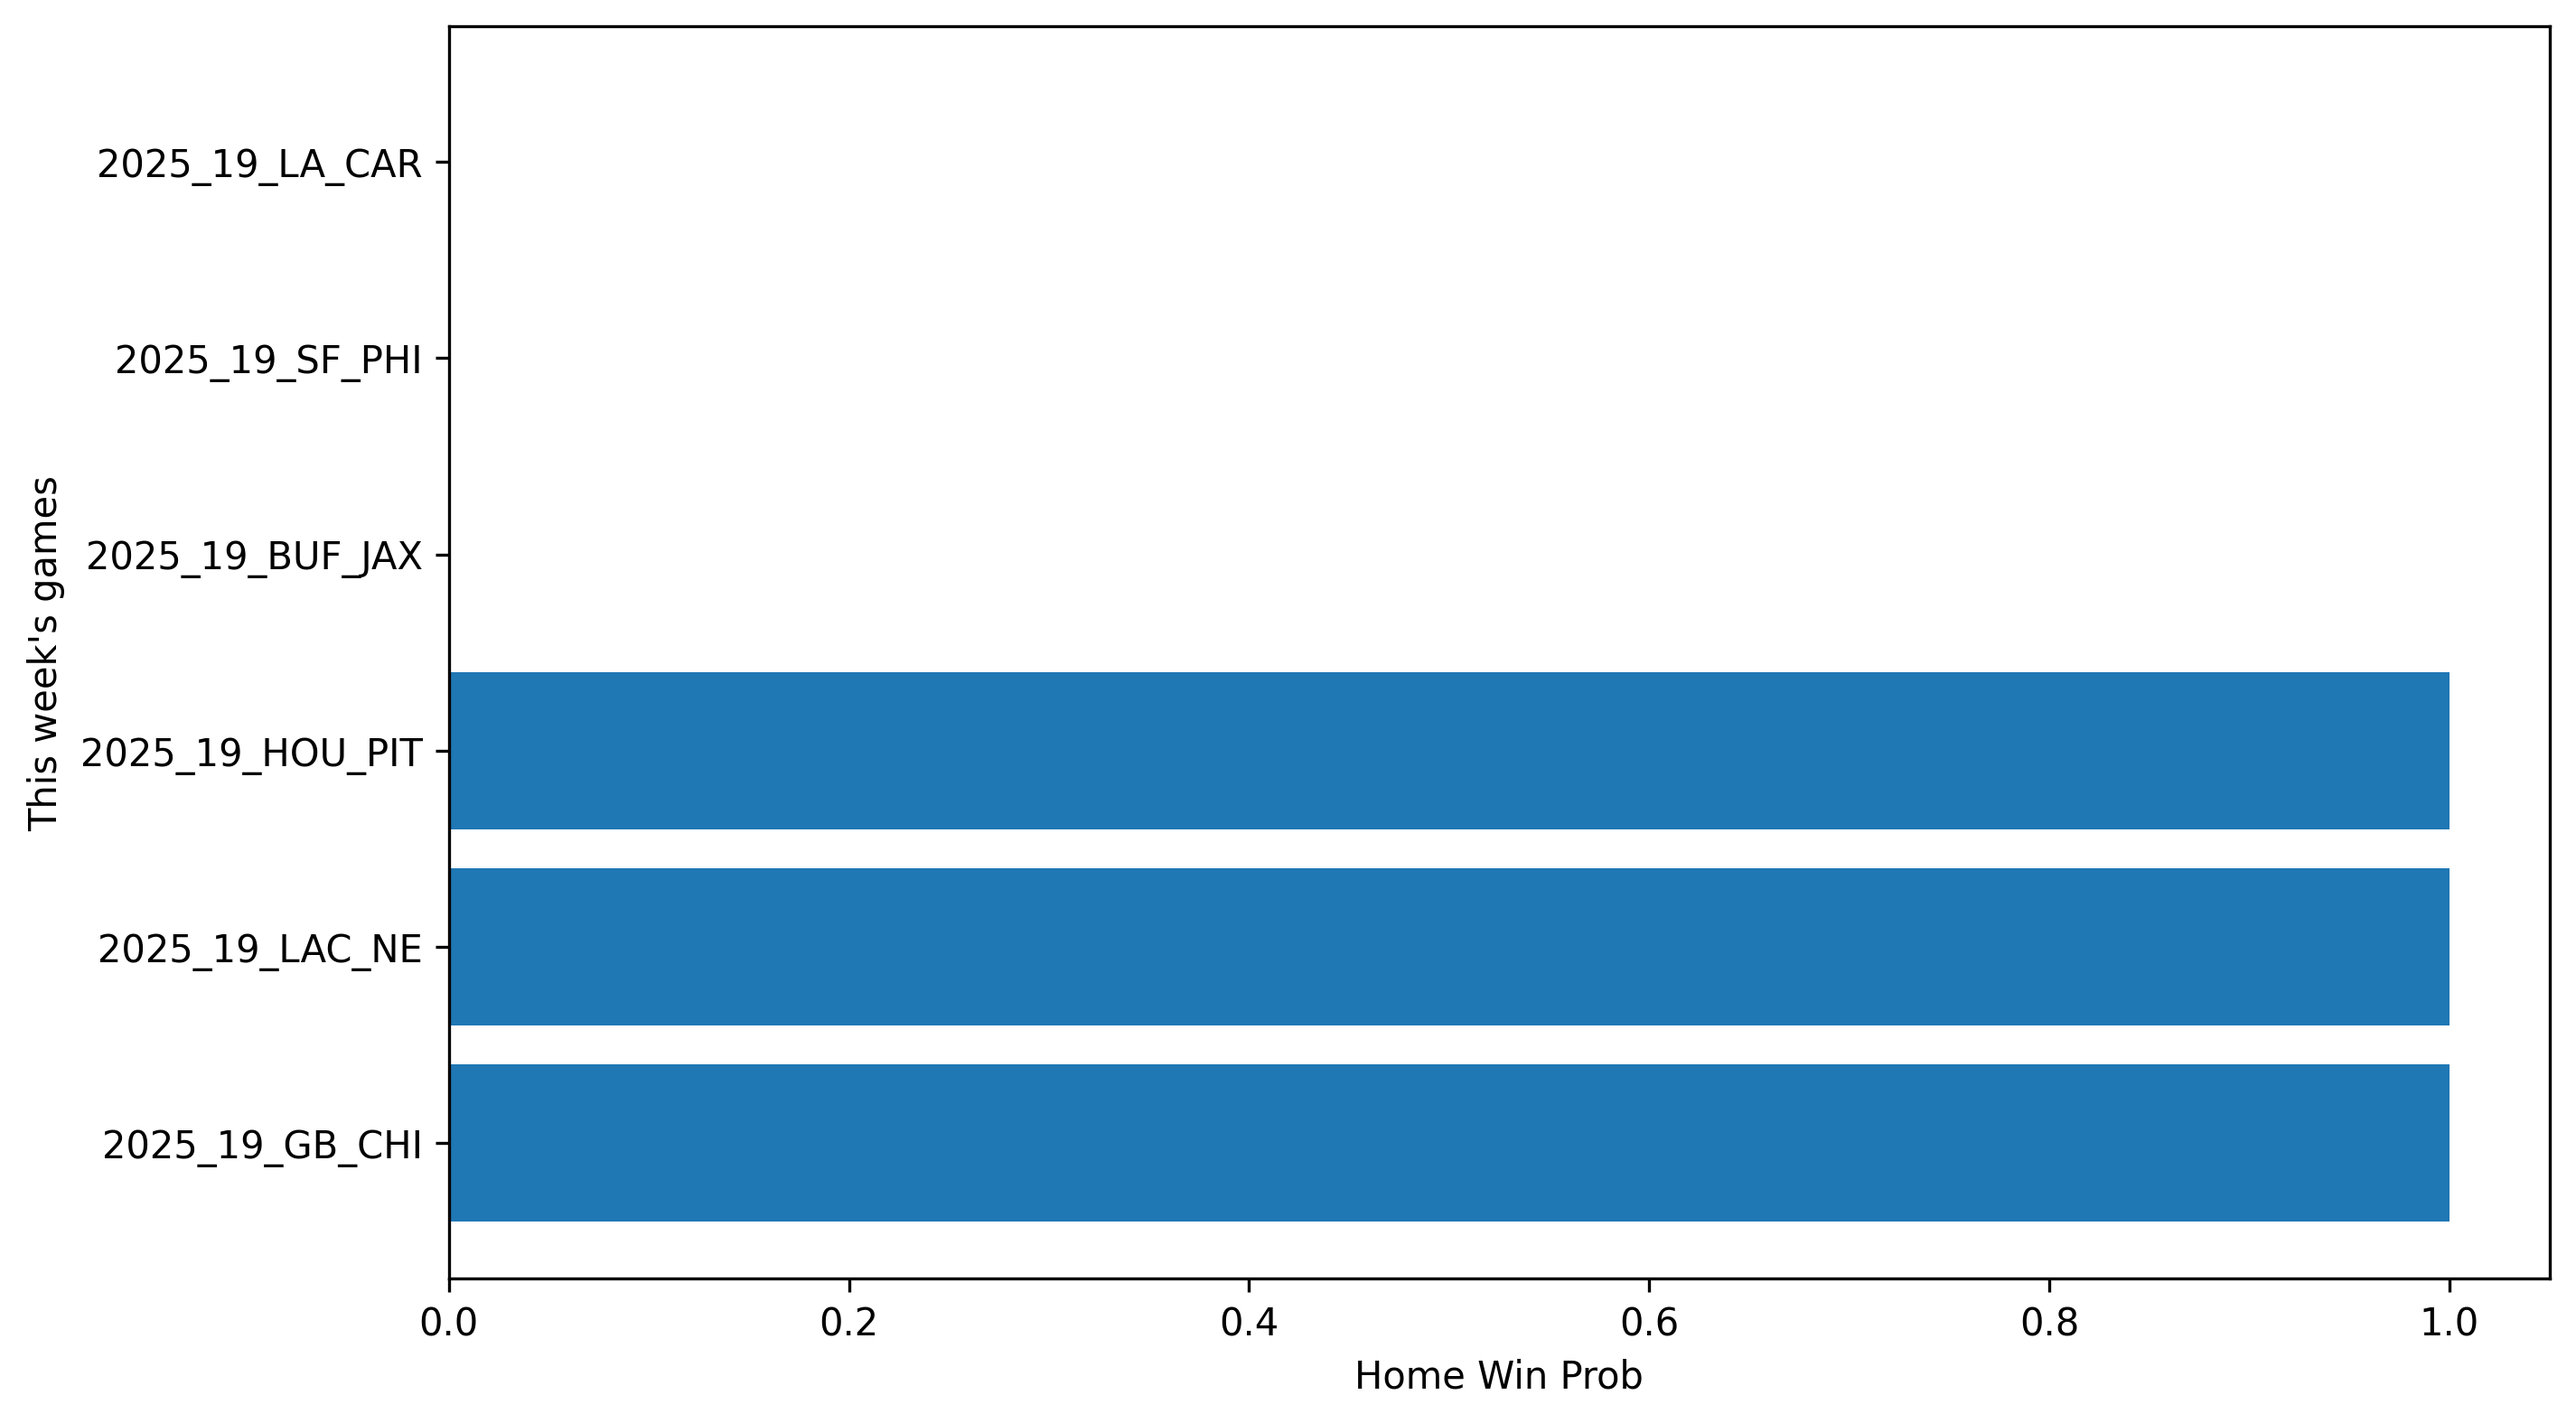
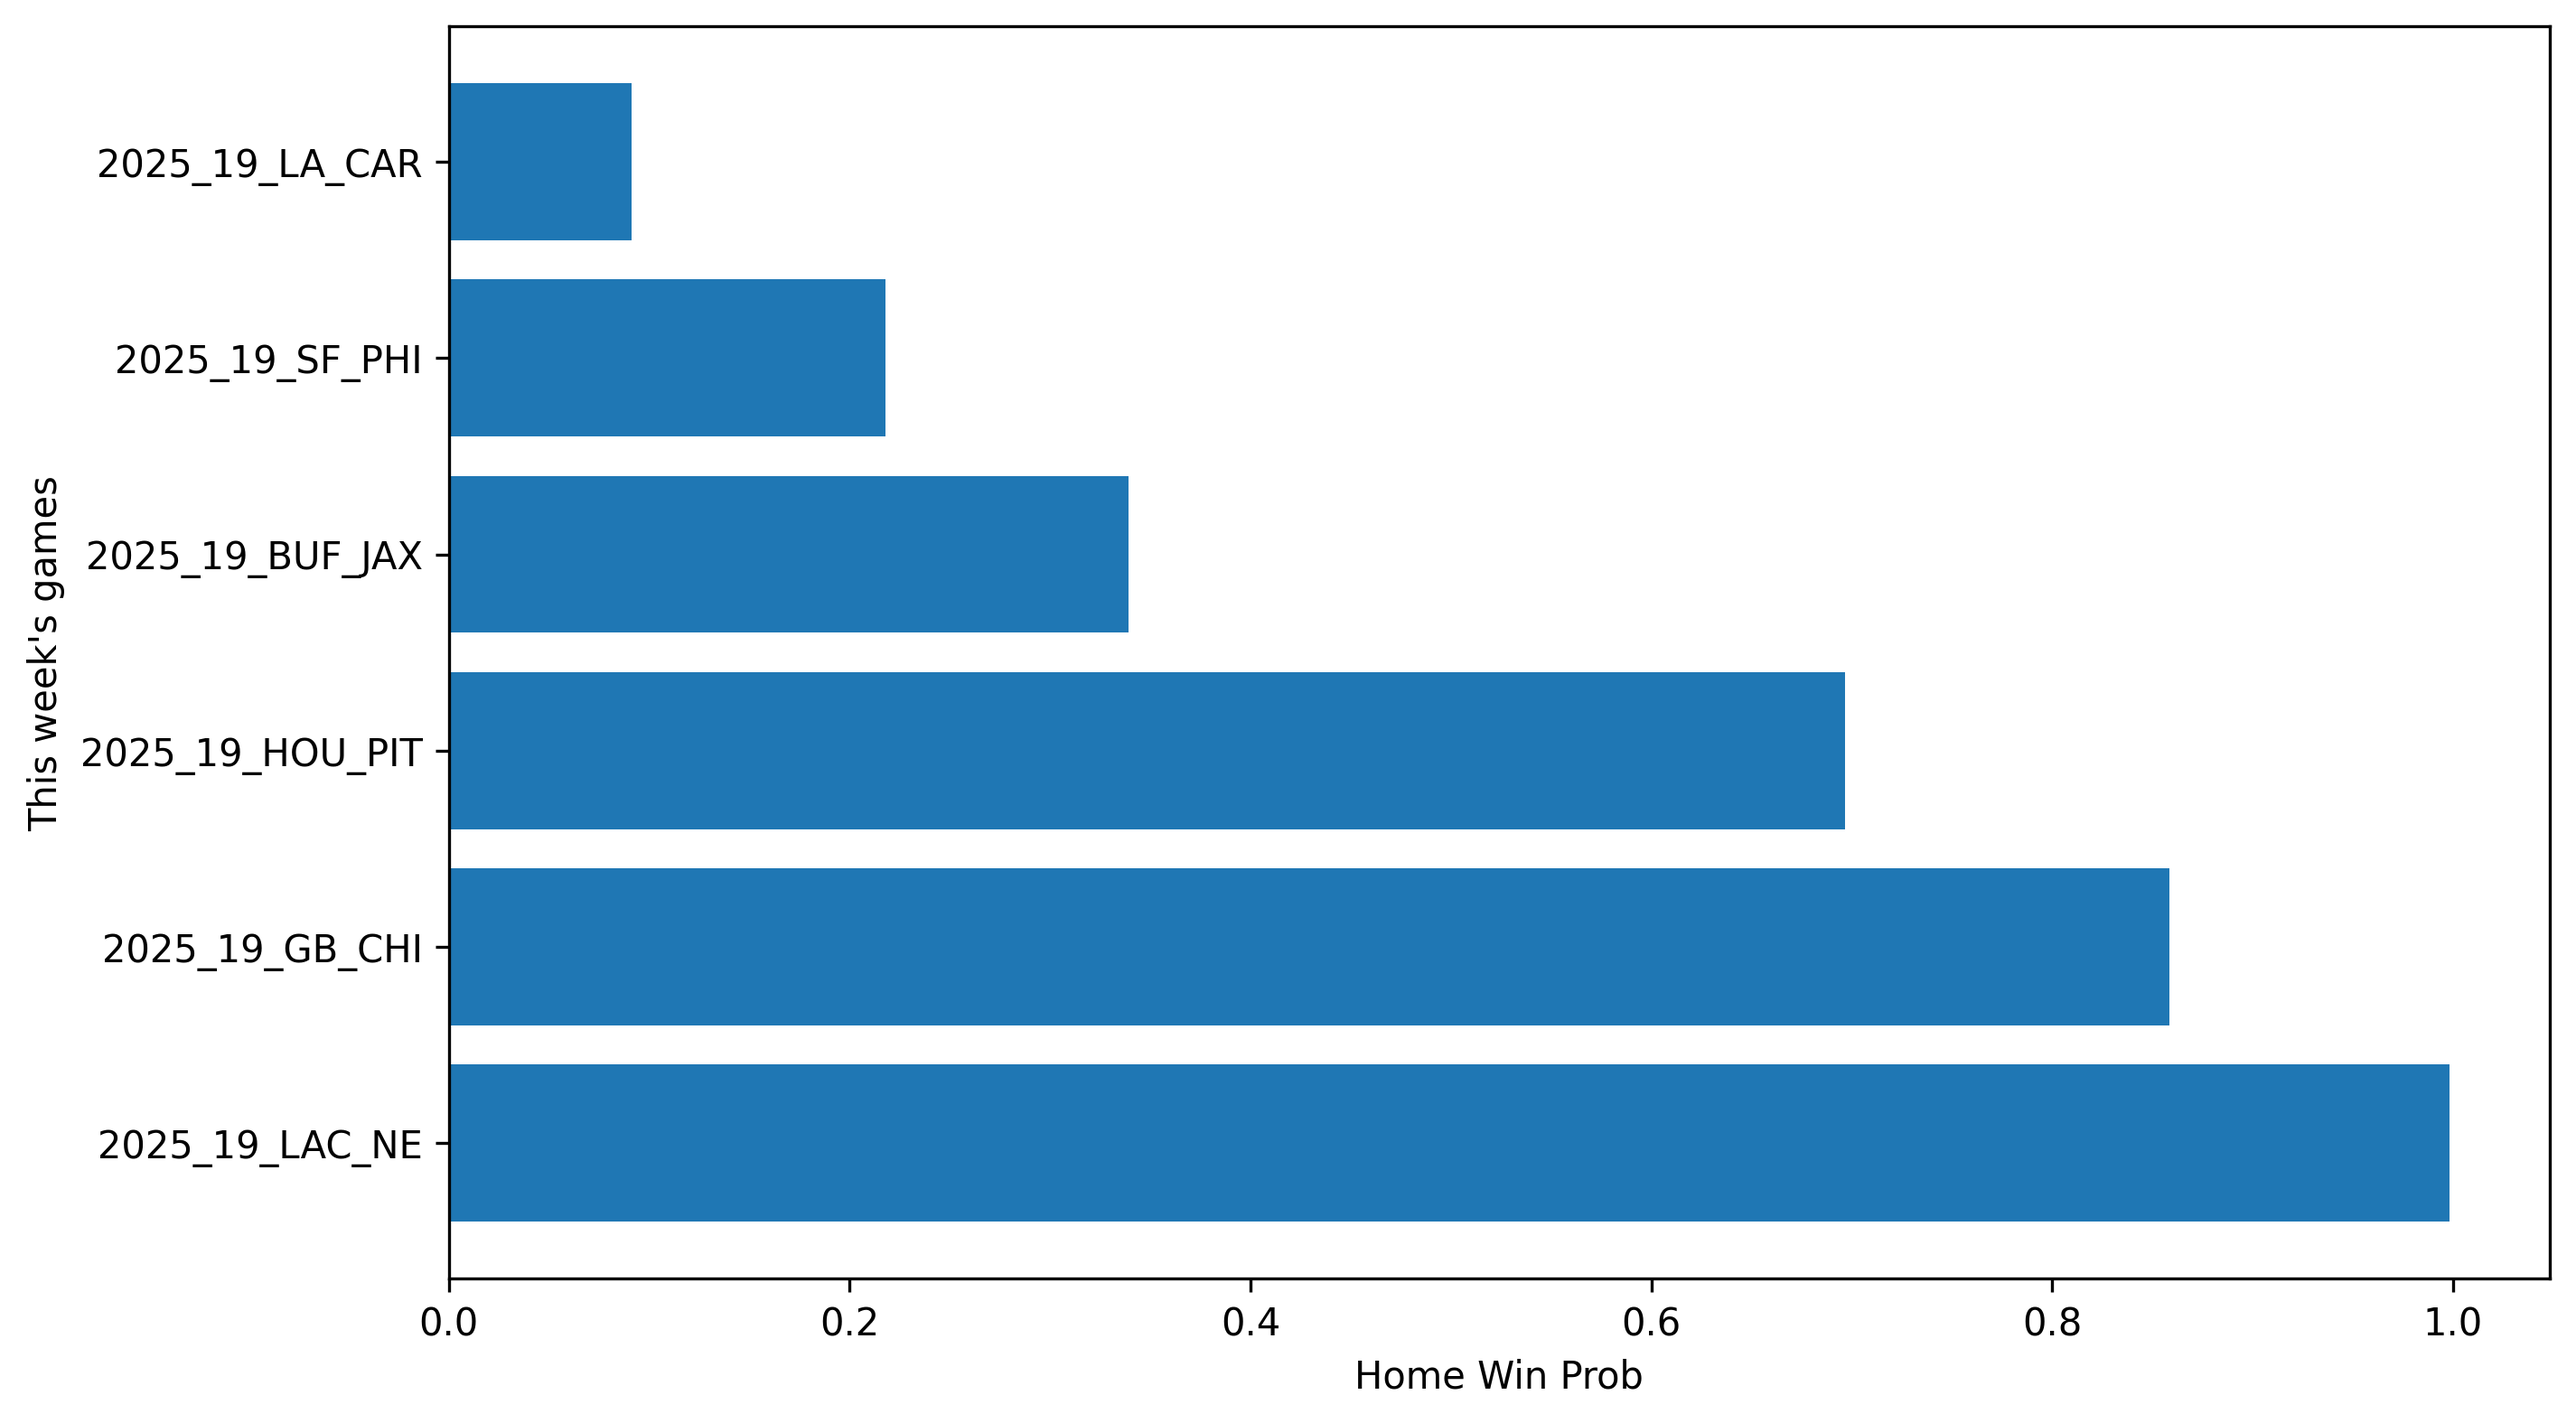
working

diff --git a/src/nfl_predictor.py b/src/nfl_predictor.py
@@ -21,7 +21,7 @@ def get_nfl_diffs():
                           (schedule['season'] == current_season)].copy()
 
     # 3. Define the stats we want to compare (based on your columns)
-    keep_cols = [
+    keep_cols_old = [
         'team', 
         'passing_yards_ewma',
         'passing_tds_ewma',
@@ -34,6 +34,18 @@ def get_nfl_diffs():
         'turnover_margin_ewma',
         'def_tackles_for_loss_ewma'
     ]
+    keep_cols = [
+        'team',
+        'completion_pct_ewma',
+        'passing_tds_ewma',
+        'rushing_tds_ewma',
+        'turnover_margin_ewma',
+        'turnovers_offense_ewma',
+        'rushing_yards_ewma',
+        'sacks_suffered_ewma',
+        'turnovers_defense_ewma',
+        'passing_yards_ewma',
+        'def_tackles_for_loss_ewma']
 
     # 4. Merge Home Team Stats
     df_matchups = pd.merge(
@@ -83,7 +95,7 @@ def get_nfl_diffs():
     plt.savefig('outputs/wild_card_probs', dpi=300, bbox_inches='tight')
     plt.show()
     
-    return model_cols
+    return final_df
 
 if __name__ == "__main__":
     result = get_nfl_diffs()
